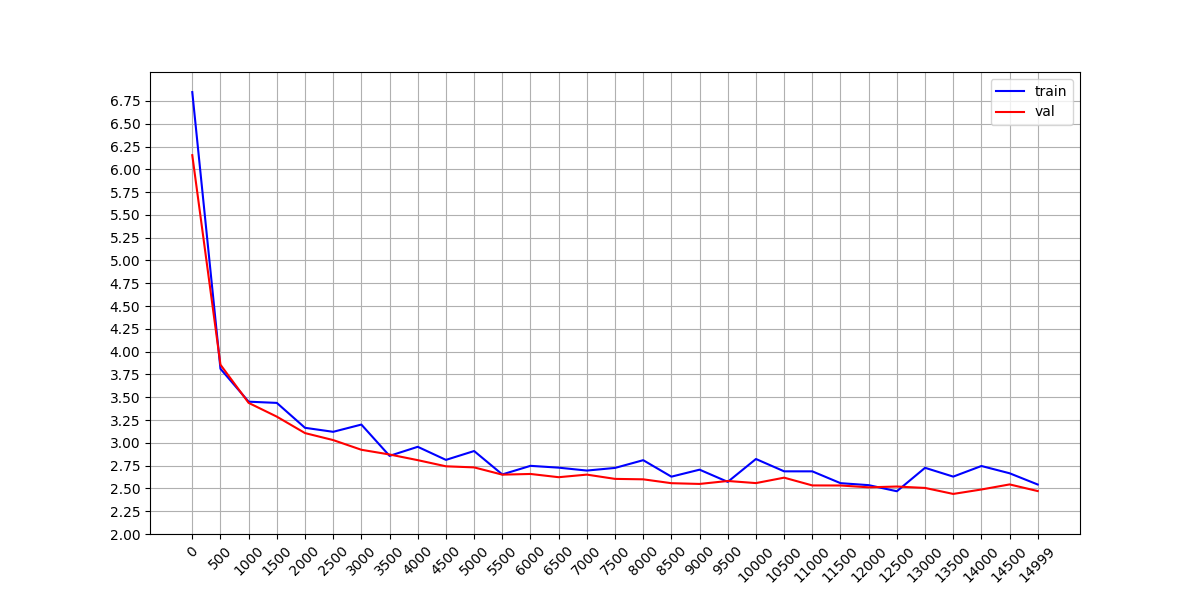
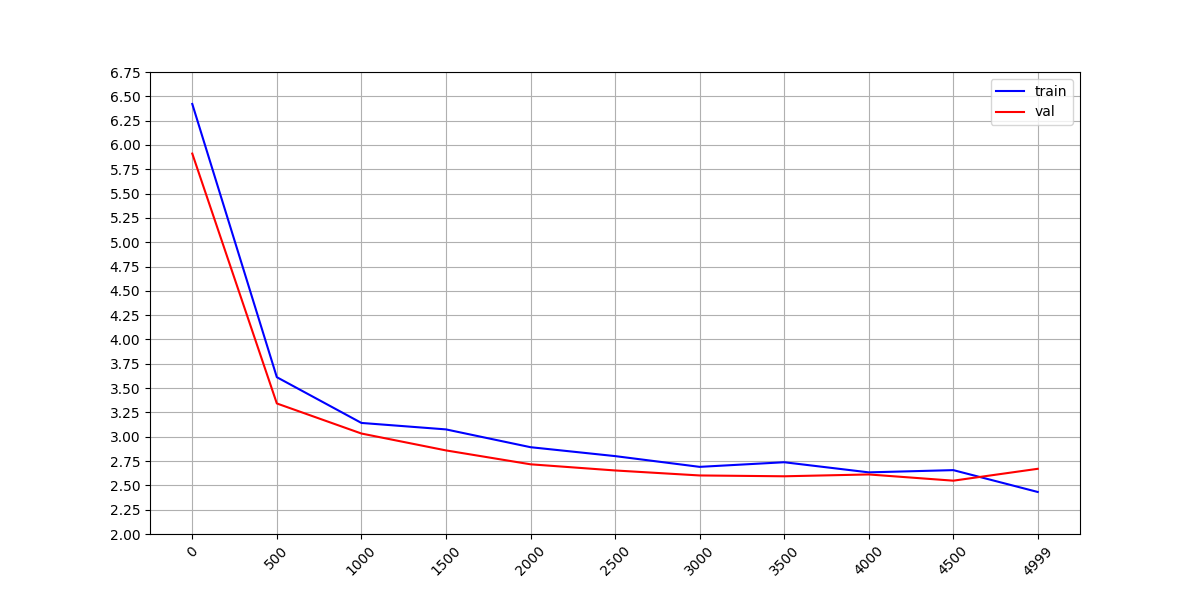
add support for pad masking

Changed region(s): [[0.0925, 0.12, 0.8942, 0.87], [0.1542, 0.9, 0.8942, 0.96]]

diff --git a/models/model_blocks.py b/models/model_blocks.py
@@ -2,6 +2,8 @@ import torch
 import torch.nn as nn
 from torch.nn import functional as F
 
+from train_funcs import HyperParams
+
 
 class Encoder(nn.Module):
     """Transformer encoder."""
@@ -11,22 +13,18 @@ class Encoder(nn.Module):
         n_heads: int,
         d_model: int,
         d_ffwd: int,
-        block_size: int,
         dropout: float,
-        mask_future: bool,
     ) -> None:
         super().__init__()
         self.layer_norm1 = nn.LayerNorm(d_model)
-        self.mha = MultiHeadAttention(
-            n_heads, d_model, block_size, dropout, mask_future
-        )
+        self.mha = MultiHeadAttention(n_heads, d_model, dropout)
 
         self.layer_norm2 = nn.LayerNorm(d_model)
         self.ffwd = FeedForward(d_model, d_ffwd, dropout)
 
-    def forward(self, x: torch.Tensor) -> torch.Tensor:
+    def forward(self, x: torch.Tensor, attention_mask: torch.Tensor) -> torch.Tensor:
         z = self.layer_norm1(x)
-        z = z + self.mha(z, z, z)
+        z = z + self.mha(z, z, z, attention_mask)
 
         z = self.layer_norm2(z)
         z = z + self.ffwd(z)
@@ -36,33 +34,31 @@ class Encoder(nn.Module):
 class Decoder(nn.Module):
     """Transformer decoder."""
 
-    def __init__(
-        self, n_heads: int, d_model: int, d_ffwd: int, block_size: int, dropout: float
-    ) -> None:
+    def __init__(self, n_heads: int, d_model: int, d_ffwd: int, dropout: float) -> None:
         super().__init__()
 
         self.layer_norm1 = nn.LayerNorm(d_model)
-        self.self_attention = MultiHeadAttention(
-            n_heads, d_model, block_size, dropout, mask_future=True
-        )
+        self.self_attention = MultiHeadAttention(n_heads, d_model, dropout)
 
         self.layer_norm2 = nn.LayerNorm(d_model)
-        # No future masking b/c kv comes from encoder.
-        self.cross_attention = MultiHeadAttention(
-            n_heads, d_model, block_size, dropout, mask_future=False
-        )
+        self.cross_attention = MultiHeadAttention(n_heads, d_model, dropout)
 
         self.layer_norm3 = nn.LayerNorm(d_model)
         self.ffwd = FeedForward(d_model, d_ffwd, dropout)
 
     def forward(
-        self, x: torch.Tensor, encoder_k: torch.Tensor, encoder_v: torch.Tensor
+        self,
+        x: torch.Tensor,
+        encoder_k: torch.Tensor,
+        encoder_v: torch.Tensor,
+        self_attention_mask: torch.Tensor,
+        cross_attention_mask: torch.Tensor,
     ) -> torch.Tensor:
         z = self.layer_norm1(x)
-        z = z + self.self_attention(z, z, z)
+        z = z + self.self_attention(z, z, z, self_attention_mask)
 
         z = self.layer_norm2(z)
-        z = z + self.cross_attention(z, encoder_k, encoder_v)
+        z = z + self.cross_attention(z, encoder_k, encoder_v, cross_attention_mask)
 
         z = self.layer_norm3(z)
         z = z + self.ffwd(z)
@@ -76,9 +72,7 @@ class MultiHeadAttention(nn.Module):
         self,
         n_heads: int,
         d_model: int,
-        block_size: int,
         dropout: float,
-        mask_future: bool,
     ) -> None:
         super().__init__()
 
@@ -93,18 +87,17 @@ class MultiHeadAttention(nn.Module):
         self.q_net = nn.Linear(d_model, d_model, bias=False)
         self.v_net = nn.Linear(d_model, d_model, bias=False)
 
-        # TODO: support padding masks.
-        if mask_future:
-            self.register_buffer("tril", torch.tril(torch.ones(block_size, block_size)))
-        self.mask_future = mask_future
-
         self.wei_dropout = nn.Dropout(dropout)
 
         self.linear = nn.Linear(d_model, d_model, bias=True)
         self.output_dropout = nn.Dropout(dropout)
 
     def forward(
-        self, q: torch.Tensor, k: torch.Tensor, v: torch.Tensor
+        self,
+        q: torch.Tensor,
+        k: torch.Tensor,
+        v: torch.Tensor,
+        attention_mask: torch.Tensor,
     ) -> torch.Tensor:
         Q = self.q_net(q)
         K = self.k_net(k)
@@ -112,7 +105,7 @@ class MultiHeadAttention(nn.Module):
 
         Q, K, V = (self.split_heads(i) for i in (Q, K, V))
 
-        z = self.scaled_dot_product_attention(Q, K, V)
+        z = self.scaled_dot_product_attention(Q, K, V, attention_mask)
 
         z = self.combine_heads(z)
 
@@ -121,15 +114,16 @@ class MultiHeadAttention(nn.Module):
         return z
 
     def scaled_dot_product_attention(
-        self, Q: torch.Tensor, K: torch.Tensor, V: torch.Tensor
+        self,
+        Q: torch.Tensor,
+        K: torch.Tensor,
+        V: torch.Tensor,
+        attention_mask: torch.Tensor,
     ) -> torch.Tensor:
         wei = Q @ K.transpose(-2, -1)  # Calculate affinities.
         wei = wei * (self.head_size**-0.5)
 
-        if self.mask_future:
-            # Mask to time length (for short sequence generation).
-            T = wei.shape[-1]
-            wei = wei.masked_fill((self.tril == 0)[:T, :T], float("-inf"))
+        wei = wei + attention_mask
 
         wei = F.softmax(wei, dim=-1)  # Softmax smoothing.
         wei = self.wei_dropout(wei)
@@ -144,6 +138,36 @@ class MultiHeadAttention(nn.Module):
     def combine_heads(self, x: torch.Tensor) -> torch.Tensor:
         B, n_heads, T, head_size = x.shape
         return x.transpose(1, 2).contiguous().view(B, T, int(n_heads * head_size))
+
+
+def get_attention_mask(
+    q_tokens: torch.Tensor,
+    k_tokens: torch.Tensor,
+    q_pad_idx: int | None,
+    k_pad_idx: int | None,
+    mask_future: bool,
+) -> torch.Tensor:
+    """Return an addative attention mask. Supports pad and future masking."""
+    B, T = q_tokens.shape
+    mask = torch.zeros((B, T, T), dtype=torch.float32)
+
+    # Pad mask.
+    if None not in (q_pad_idx, k_pad_idx):
+        q_mask = (q_tokens == q_pad_idx).unsqueeze(-1)
+        k_mask = (k_tokens == k_pad_idx).unsqueeze(-2)
+
+        # HACK: cannot be -inf or else becomes nan in softmax for queries.
+        mask[q_mask | k_mask] = torch.finfo(torch.float32).min
+
+    # Future mask.
+    if mask_future:
+        future_mask = torch.triu(
+            torch.full((T, T), fill_value=True, dtype=torch.bool), diagonal=1
+        )
+        mask.masked_fill_(future_mask, float("-inf"))
+
+    mask.unsqueeze_(1)  # Convert to multi-headed mask.
+    return mask.to(device=HyperParams.DEVICE)
 
 
 class FeedForward(nn.Module):

diff --git a/models/translator.py b/models/translator.py
@@ -1,7 +1,7 @@
 import torch
 import torch.nn as nn
 
-from models.model_blocks import TokenEncoding, Encoder, Decoder
+from models.model_blocks import TokenEncoding, Encoder, Decoder, get_attention_mask
 
 
 class Translator(nn.Module):
@@ -17,29 +17,26 @@ class Translator(nn.Module):
         n_heads: int,
         n_layers: int,
         dropout: float,
+        source_pad_idx: int,
+        target_pad_idx: int,
     ) -> None:
         super().__init__()
+
+        self.source_pad_idx = source_pad_idx
+        self.target_pad_idx = target_pad_idx
 
         self.encoder_token_encoding = TokenEncoding(
             source_vocab_size, d_model, block_size
         )
-        self.encoder_blocks = nn.Sequential(
-            *(
-                Encoder(
-                    n_heads, d_model, d_ffwd, block_size, dropout, mask_future=False
-                )
-                for i in range(n_layers)
-            )
+        self.encoders = nn.ModuleList(
+            [Encoder(n_heads, d_model, d_ffwd, dropout) for i in range(n_layers)]
         )
 
         self.decoder_token_encoding = TokenEncoding(
             target_vocab_size, d_model, block_size
         )
-        self.decoder_blocks = nn.ModuleList(
-            [
-                Decoder(n_heads, d_model, d_ffwd, block_size, dropout)
-                for i in range(n_layers)
-            ]
+        self.decoders = nn.ModuleList(
+            [Decoder(n_heads, d_model, d_ffwd, dropout) for i in range(n_layers)]
         )
 
         self.layer_norm = nn.LayerNorm(d_model)
@@ -50,12 +47,44 @@ class Translator(nn.Module):
     ) -> torch.Tensor:
         encoder_x, decoder_x = encoder_decoder_xs
 
+        # Encoder.
         encoder_z = self.encoder_token_encoding(encoder_x)
-        encoder_z = self.encoder_blocks(encoder_z)
 
+        encoder_attention_mask = get_attention_mask(
+            encoder_x,
+            encoder_x,
+            self.source_pad_idx,
+            self.source_pad_idx,
+            mask_future=False,
+        )
+        for encoder in self.encoders:
+            encoder_z = encoder(encoder_z, encoder_attention_mask)
+
+        # Decoder.
         decoder_z = self.decoder_token_encoding(decoder_x)
-        for decoder in self.decoder_blocks:
-            decoder_z = decoder(decoder_z, encoder_z, encoder_z)
+
+        self_attention_mask = get_attention_mask(
+            decoder_x,
+            decoder_x,
+            self.target_pad_idx,
+            self.target_pad_idx,
+            mask_future=True,
+        )
+        cross_attention_mask = get_attention_mask(
+            q_tokens=decoder_x,
+            k_tokens=encoder_x,
+            q_pad_idx=self.target_pad_idx,
+            k_pad_idx=self.source_pad_idx,
+            mask_future=False,
+        )
+        for decoder in self.decoders:
+            decoder_z = decoder(
+                decoder_z,
+                encoder_z,
+                encoder_z,
+                self_attention_mask,
+                cross_attention_mask,
+            )
 
         z = self.layer_norm(decoder_z)
         logits = self.model_head(z)

diff --git a/models/gpt.py b/models/gpt.py
@@ -1,7 +1,7 @@
 import torch
 import torch.nn as nn
 
-from models.model_blocks import TokenEncoding, Encoder
+from models.model_blocks import TokenEncoding, Encoder, get_attention_mask
 
 
 class GPT(nn.Module):
@@ -19,11 +19,8 @@ class GPT(nn.Module):
     ) -> None:
         super().__init__()
         self.token_encoding = TokenEncoding(vocab_size, d_model, block_size)
-        self.attention_blocks = nn.Sequential(
-            *(
-                Encoder(n_heads, d_model, d_ffwd, block_size, dropout, mask_future=True)
-                for i in range(n_layers)
-            )
+        self.encoders = nn.ModuleList(
+            [Encoder(n_heads, d_model, d_ffwd, dropout) for i in range(n_layers)]
         )
 
         self.layer_norm = nn.LayerNorm(d_model)
@@ -31,7 +28,12 @@ class GPT(nn.Module):
 
     def forward(self, x: torch.Tensor) -> torch.Tensor:
         z = self.token_encoding(x)  # (B, T, d_model).
-        z = self.attention_blocks(z)
+
+        attention_mask = get_attention_mask(
+            q_tokens=x, k_tokens=x, q_pad_idx=None, k_pad_idx=None, mask_future=True
+        )
+        for encoder in self.encoders:
+            z = encoder(z, attention_mask)
 
         z = self.layer_norm(z)
         logits = self.model_head(z)  # (B, T, vocab_size).

diff --git a/train_translator.py b/train_translator.py
@@ -147,9 +147,9 @@ def translate(
 
 
 if __name__ == "__main__":
-    BLOCK_SIZE = 50
+    BLOCK_SIZE = 48
     eng_bpe, spa_bpe, train_dl, val_dl = get_encoders_dataloaders(
-        vocab_size=256 + 512,
+        vocab_size=256 + 256,
         block_size=BLOCK_SIZE,
         val_split=0.15,
         batch_size=32,
@@ -164,6 +164,8 @@ if __name__ == "__main__":
         n_heads=8,
         n_layers=8,
         dropout=0.6,
+        source_pad_idx=eng_bpe.special_tokens["PAD"],
+        target_pad_idx=spa_bpe.special_tokens["PAD"],
     )
     translator = translator.to(HyperParams.DEVICE)
 
@@ -174,7 +176,7 @@ if __name__ == "__main__":
         optimizer=optimizer,
         train_dl=train_dl,
         val_dl=val_dl,
-        steps=15_000,
+        steps=5_000,
         eval_step_size=500,
         eval_steps=15,
         cross_entropy_ignore_index=spa_bpe.special_tokens["PAD"],

diff --git a/train_gpt.py b/train_gpt.py
@@ -101,8 +101,8 @@ if __name__ == "__main__":
         train_dl=train_dl,
         val_dl=val_dl,
         steps=5_000,
-        eval_step_size=250,
-        eval_steps=10,
+        eval_step_size=500,
+        eval_steps=15,
     )
 
     print("\nGenerating text")

diff --git a/todo.md b/todo.md
@@ -2,7 +2,6 @@
 * Poor text generation and English-Spanish translation (scale?).
 
 # Tasks
-* Support <pad> masking.
 * Git ignore outputs, create output dir with loss plot, weights, and generated text.
 * Fix requirements, create consistent dev environ.
 * Faster BPE (please god it takes forever).
